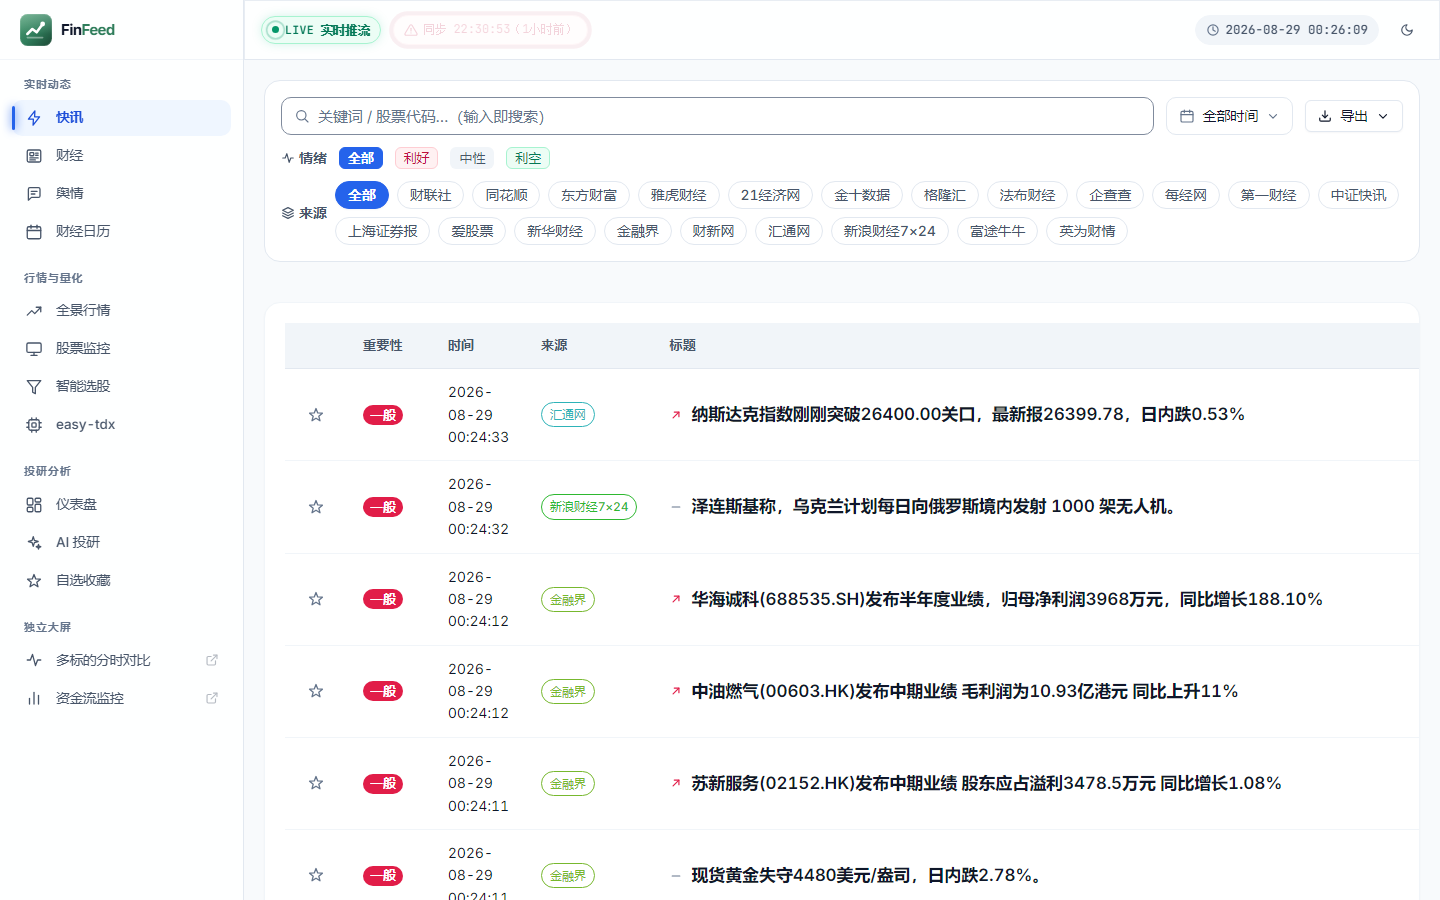
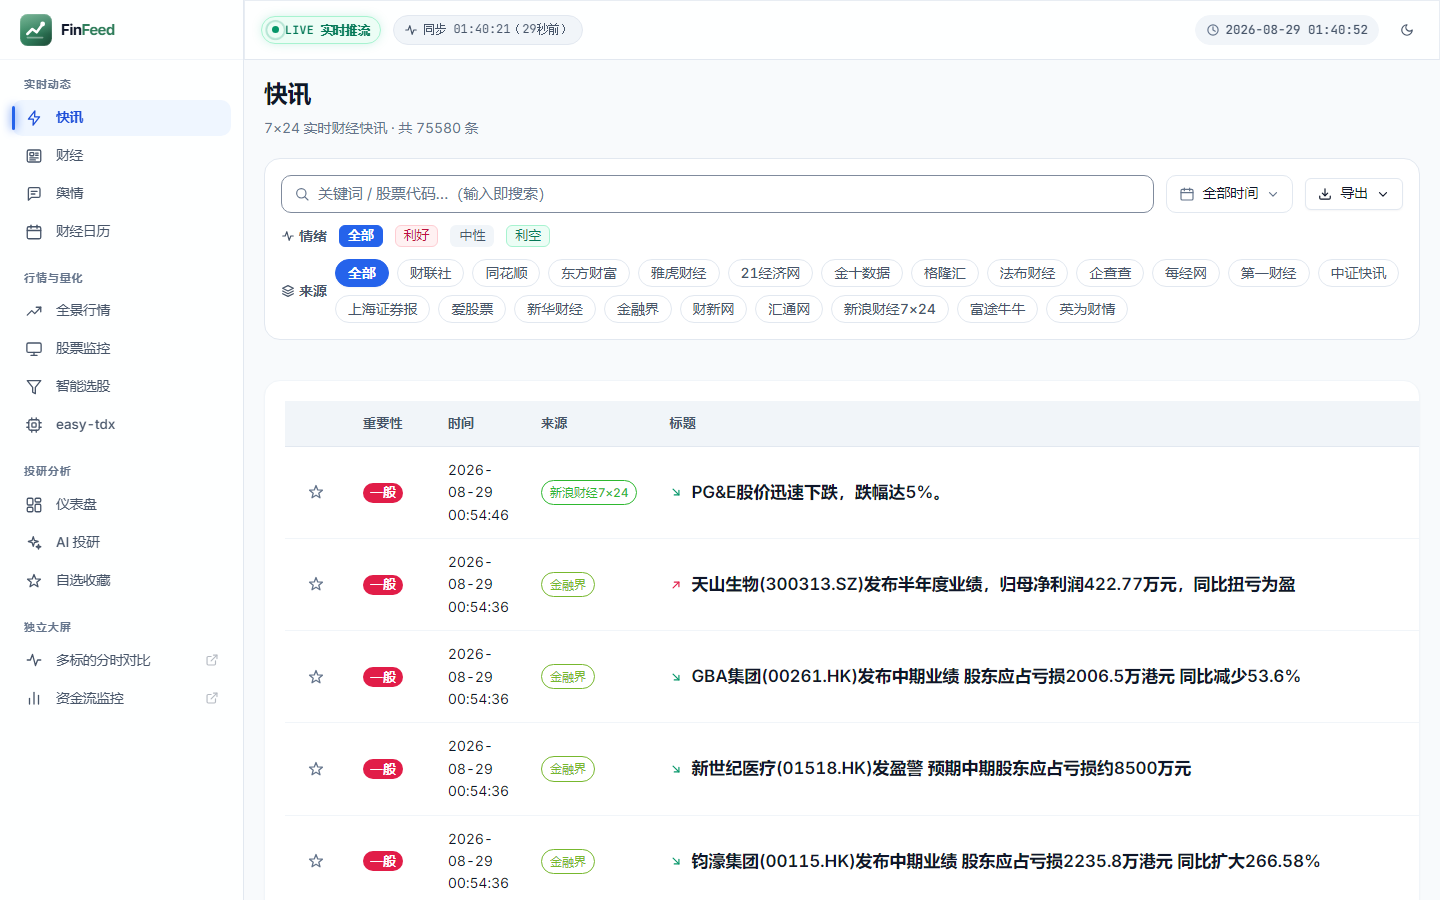
docs(ui): 设计系统更新至 4.2 + 刷新验证截图
DESIGN_SYSTEM.md
- §9 当前基线表更新至 v4.2：
  · 页面 h1 覆盖 8 视图无标题 / 8 视图层级错乱 → 19/19 视图均有 h1（D8 闭环）
  · .ff-page__header 采用率 0/19 → 10/19（其余 9 个沉浸式页面用 sr-only h1）
  · 异步状态完整 0/19 → 2/19（D7 仍待补）
  · 新增 CI 门槛接入条目（npm run audit:ui / audit:a11y + --fail 模式）
- §10 D8「页面标题层级混乱」标记为已修复，附修复方案与实测结果
  （统一采用 .ff-page__header 模式 + 沉浸式页面用 sr-only h1）

docs/shots/（10 张重采）
- 5 个核心页面 × 亮/暗两主题，用于验证 v4.2 新页头的实际渲染效果
- flash-light 显示"快讯 · 7×24 实时财经快讯 · 共 75580 条"页头正确呈现
- ai-light 显示 AI 工作台"AI 投研工作台 · 服务状态、快捷指令与最近产出"
  与现有卡片布局自然融合

diff --git a/web/DESIGN_SYSTEM.md b/web/DESIGN_SYSTEM.md
@@ -333,7 +333,7 @@ python web/scripts/shoot_ui.py --base http://127.0.0.1:5199
 > `page_audit.py` 产出的「异步状态缺口」「标题层级」「自写 button」三项，
 > 是纯静态扫描难以覆盖、却直接影响用户体验的维度，建议与另两个脚本一并纳入 CI。
 
-### 当前基线（v4.1 · 2026-08-29 复审）
+### 当前基线（v4.2 · 2026-08-29）
 
 | 指标 | 整改前 | 整改后 |
 |------|--------|--------|
@@ -344,10 +344,12 @@ python web/scripts/shoot_ui.py --base http://127.0.0.1:5199
 | 硬编码 HEX | 843 | 853（净增 10 处，均为 `tokens.css` 注释中的示例色值，非组件实现） |
 | 无断点适配组件 | 31 | 31（见 D4） |
 | 栅格 `lg` 断点 | 缺失 | **已补齐**，并修正为移动优先 |
-| `.ff-page` / `__header` / `.ff-grid` 采用率 | — | 9/19 · **0/19** · 1/19（见 D2） |
-| 异步状态完整（loading+empty+error） | — | **0 / 19**（见 D7） |
+| 页面 h1 覆盖 | 8 视图无标题 + 8 视图层级错乱 | **19/19 视图均有 h1**（D8 已闭环） |
+| `.ff-page` / `__header` 采用率 | 9/19 · 0/19 | **9/19 · 10/19**（其余 9 个沉浸式页面用 sr-only h1） |
+| 异步状态完整（loading+empty+error） | — | 2/19 完整 / 17/19 有缺口（见 D7） |
 | 自写 `<button>` 绕过 AppButton | — | 43 文件 / **150 处**（见 D9） |
 | 自写 `<svg>` 绕过 AppIcon | — | **0 处**（图标纪律标杆） |
+| CI 门槛接入 | — | `npm run audit:ui` / `audit:a11y` 加 `--fail` 模式，构建可设阈值失败 |
 
 > 「深色模式适配组件 0/89」这类基于 grep `data-theme` 的指标具有误导性，已从基线中移除——
 > 组件只要消费 `--ff-*` 语义令牌便会自动适配。深色模式应以**实机截图比对**为准。
@@ -427,13 +429,19 @@ empty   → <AppEmpty :title description icon />
 error   → <AppEmpty tone="danger" … /> 或告警条 + 重试按钮
 ```
 
-### D8 · 页面标题层级混乱（高）
+### D8 · 页面标题层级混乱（高）<span style="color:#059669">✓ v4.2 已修复</span>
 
-- **8 个视图无任何标题标签**：FlashView、ArticlesView、CalendarView、SentimentView、ai/Analyst、ai/Reports、ai/Tasks、AiLayout。
-- **层级起点不一**：Dashboard/EasyTdx 从 `h1`，StockMonitor 从 `h2`，Screener/Settings/Workbench 从 `h3`。
-- **8 个视图用原生 `h1~h4` 却不用 `.ff-h*` 排版类**，字号/字重/行高各自为政。
+**修复前问题**：
+- 8 个视图无任何标题标签
+- 层级起点不一：StockMonitor 从 `h2`、Screener/Settings/Workbench 从 `h3`
+- 8 个视图用原生 `h1~h4` 却不用 `.ff-h*` 排版类
 
-影响读屏可用性与 SEO。统一方案见 D2：每个视图有且仅有一个 `h1`，区块标题从 `h2` 起。
+**修复方案**：
+- 统一采用 `<header class="ff-page__header"><div class="ff-page__heading"><h1 class="ff-page__title">…</h1><p class="ff-page__desc">…</p></div></header>` 模式
+- 沉浸式页面（AnalystView 对话、ReportReaderView 报告阅读）改用 `<h1 class="ff-sr-only">` 保留文档语义，不破坏全屏布局
+- AiLayout 是 tab 容器，标题通过 sr-only h1 提供
+
+**当前状态**（v4.2 实测）：19/19 视图均有 h1，0 个视图缺显式标题；`.ff-page__header` 采用率 10/19（其余 9 个为沉浸式页面用 sr-only h1）。
 
 ### D9 · 150 处自写 `<button>` 绕过 AppButton（高）
 
